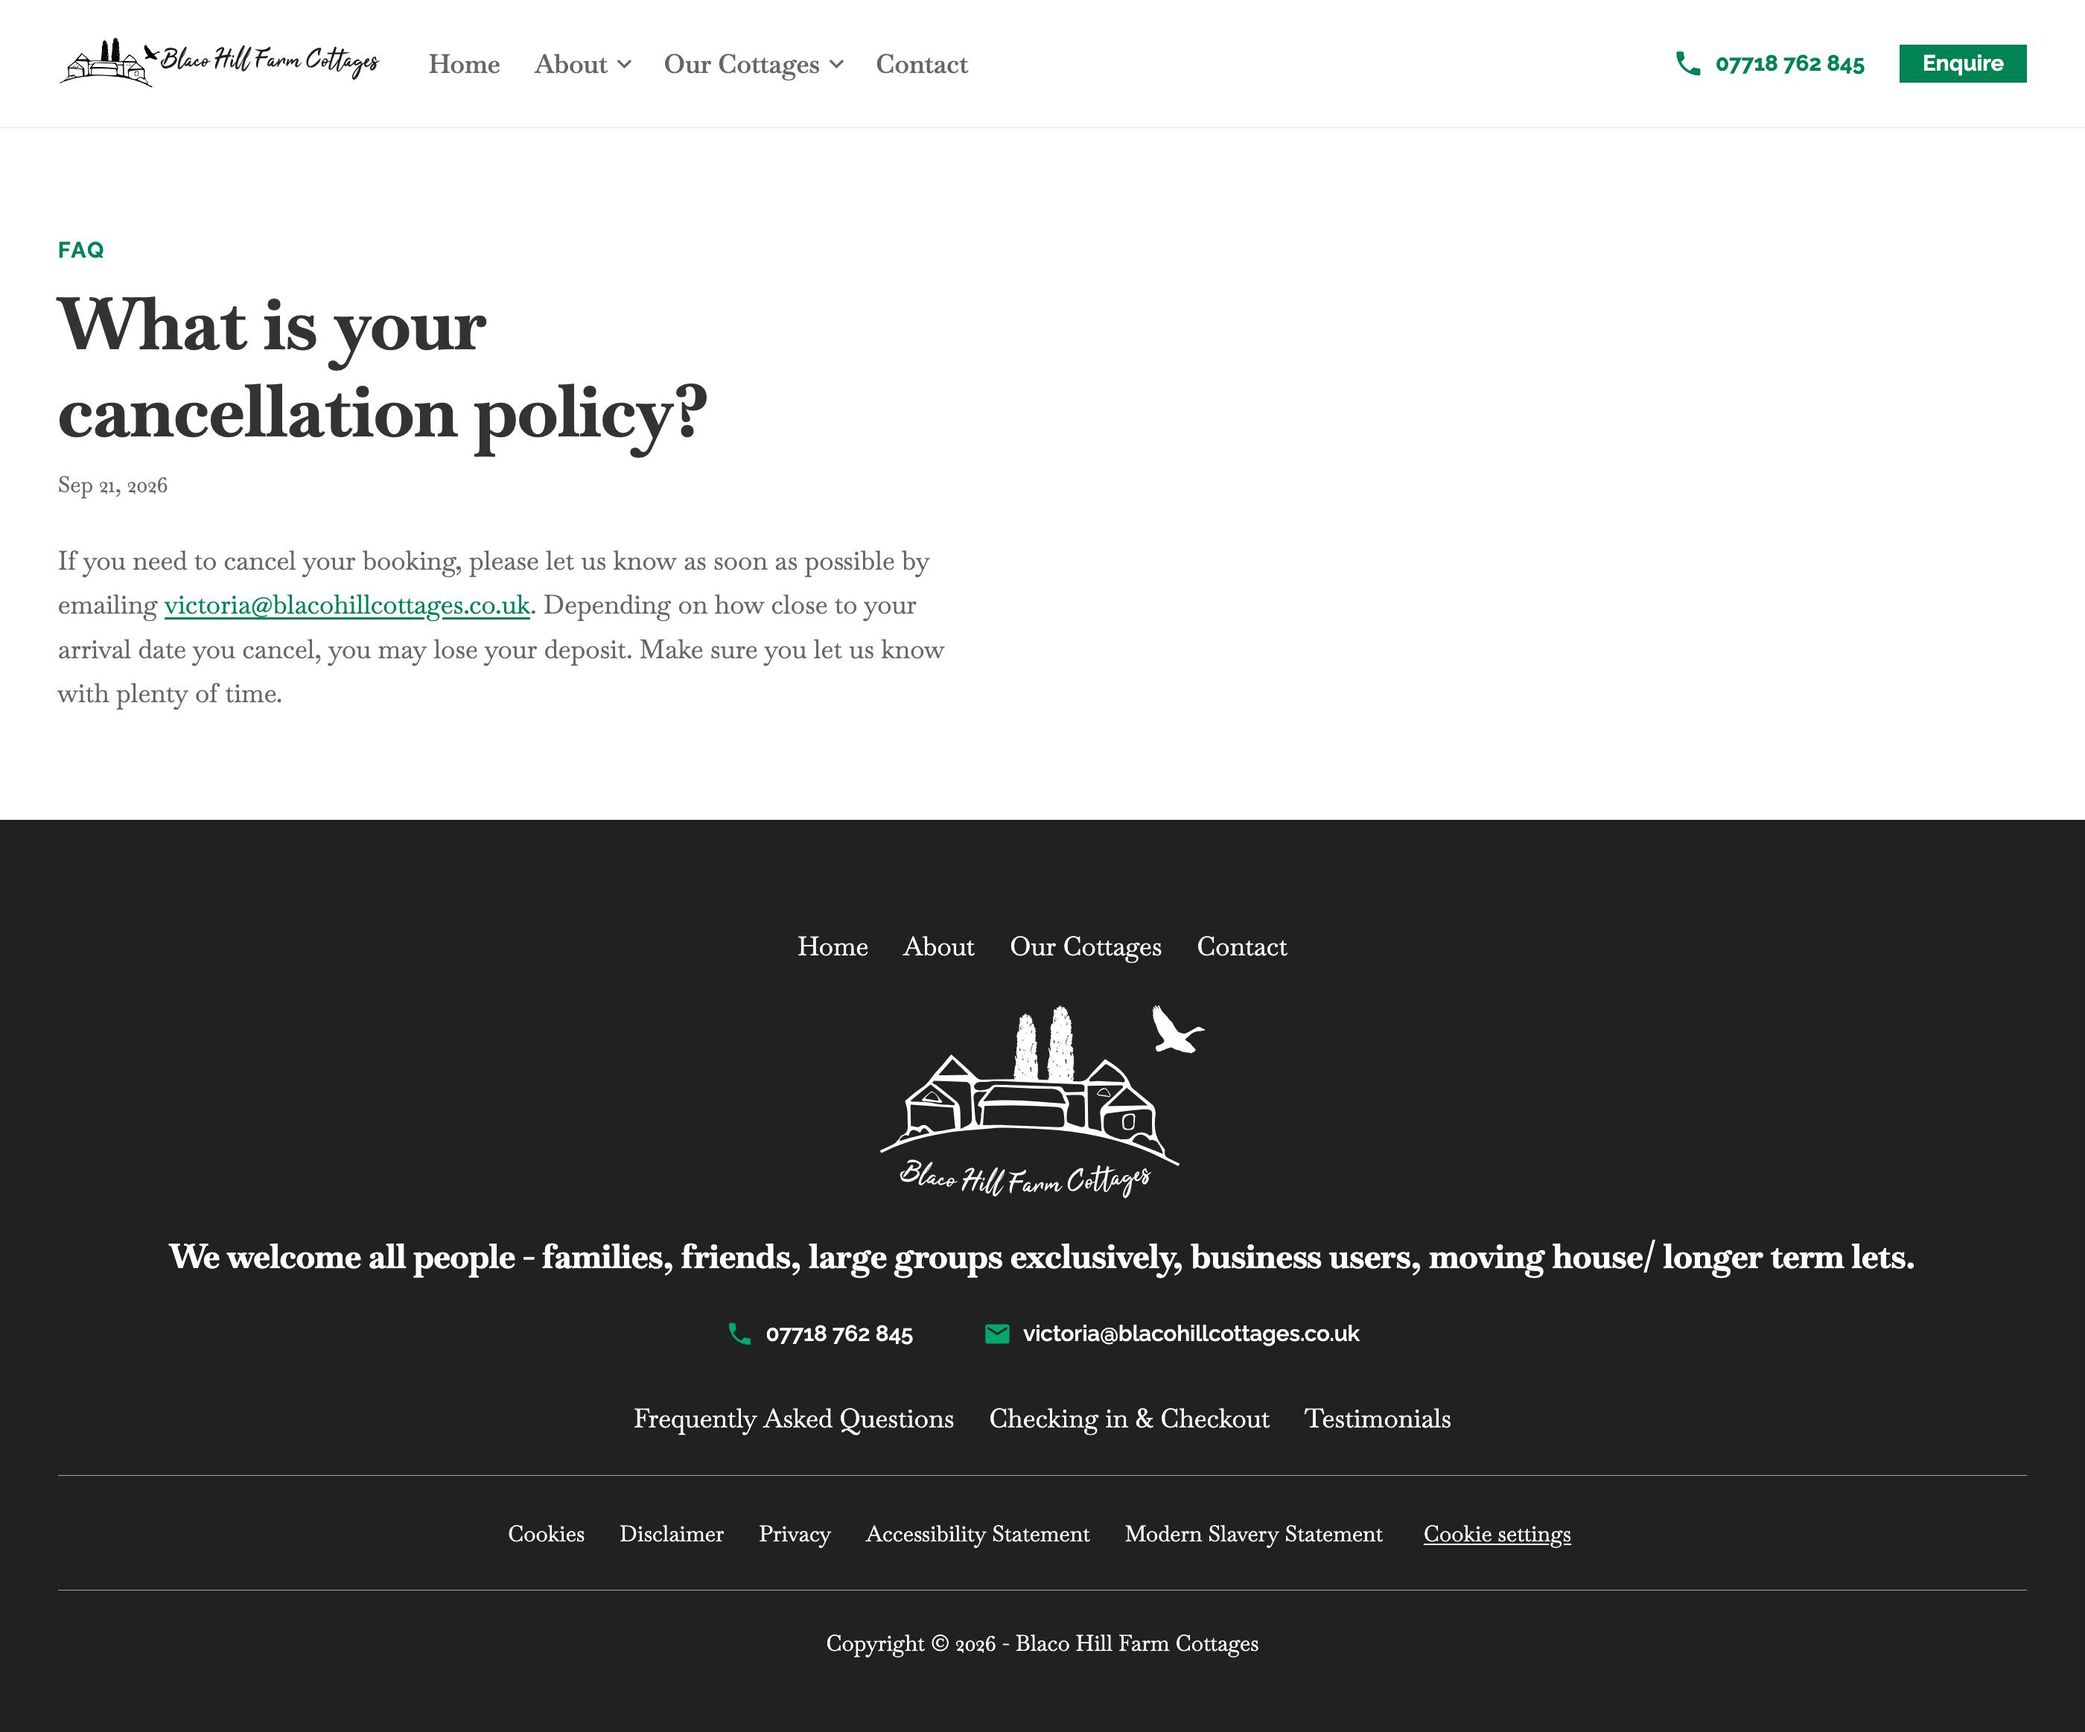
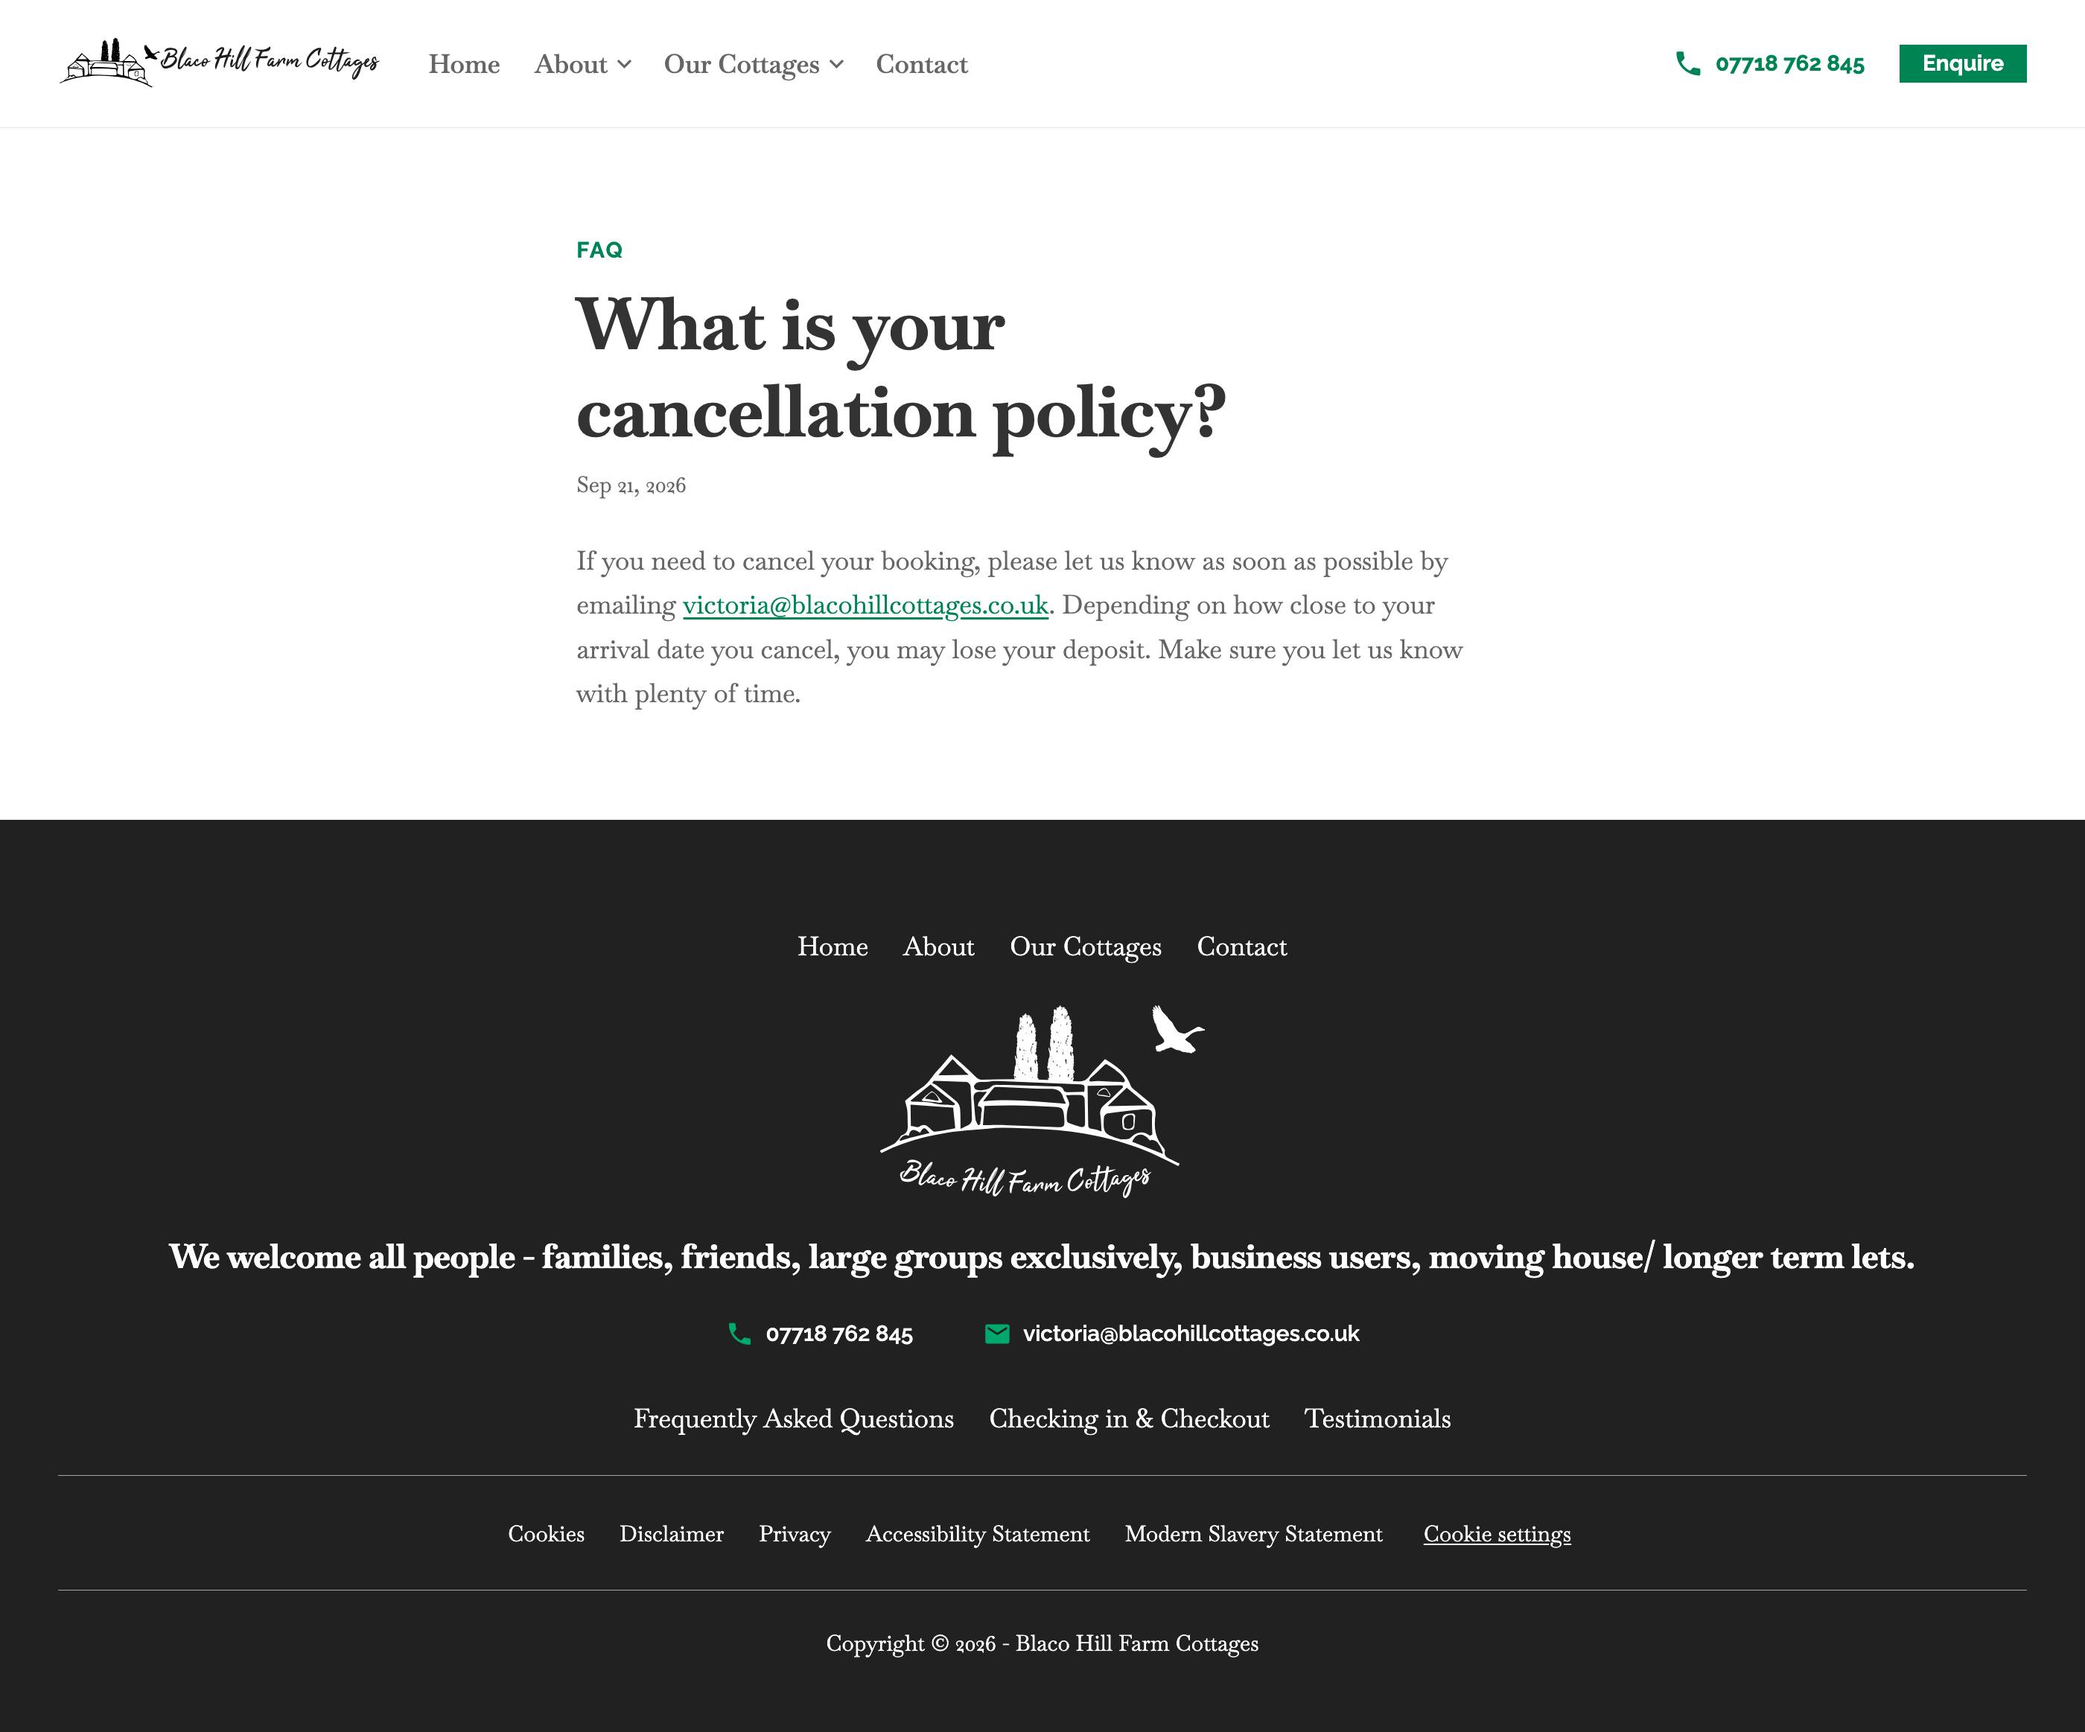
Centre the reading column on the text-heavy pages
The text column on the policy pages, /modern-slavery and the FAQ and
testimonial details is now centred in the page rather than left against
the gutter. Only content sections: the green band and the contact block
keep their layout. The accessibility statement is left as it was, since
its headings sit over list rows that span the page.

A flex item with auto margins shrinks to its content, so each centred
column also gets width: 100% and keeps the full measure.

The reported narrow measure on /modern-slavery did not reproduce: every
page holds a median of 78 characters per line at 768 to 2800px, with the
column at exactly 73ch. The measure is unchanged.

Screenshots retaken for modern-slavery, policy, post-faq and
post-testimonial. tsc clean, build 60 pages, SEO audit clean bar the
three known long titles, content parity 0 unexplained, URL parity 69 of
69, Phase 4 pass, :global audit clean.

Changed region(s): [[0.0311, 0.3095, 0.6214, 0.4024], [0.0311, 0.1238, 0.5904, 0.2786], [0.6214, 0.3095, 0.6836, 0.3715]]

diff --git a/app/components/blocks/Blocks.module.css b/app/components/blocks/Blocks.module.css
@@ -409,6 +409,19 @@
   max-width: var(--measure);
 }
 
+/*
+  The text column is centred in the page, not left against the gutter. Only in
+  content sections: the green band and the contact block keep their layout. Not
+  on the accessibility statement, whose full-width headings sit over rows of
+  two to four list columns that span the page, so it has no single column to
+  centre. width: 100% stops the column shrinking to its content, as a flex item
+  with auto margins otherwise would, so it holds the full measure.
+*/
+.measured:not([data-template='accessibility']) .section[data-kind='content'] .column[data-size='4_4'] > .prose {
+  width: 100%;
+  margin-inline: auto;
+}
+
 /* ---------- buttons ---------- */
 
 .button {

diff --git a/app/components/templates/PostTemplate.module.css b/app/components/templates/PostTemplate.module.css
@@ -33,7 +33,11 @@
 }
 
 /* FAQ and testimonial detail pages are text heavy: the header and the answer
-   keep to the reading measure (Checkpoint 5 decision 2). */
+   keep to the reading measure (Checkpoint 5 decision 2), centred in the page.
+   width: 100% stops a flex item with auto margins shrinking to its content, so
+   the header and the answer share one column. */
 .post > * {
+  width: 100%;
   max-width: var(--measure);
+  margin-inline: auto;
 }

diff --git a/agent/DECISIONS.md b/agent/DECISIONS.md
@@ -100,3 +100,10 @@ Requested by the client, 2026-09-23.
    - Its meta description and `og:description` are written in the style of the others and added to `agent/blaco_seo_descriptions.csv`.
    - It exists only in the rebuild, not on the WordPress site, so it is added in `build-content.mjs` rather than extracted. The About page FAQ toggles stay as they are (Checkpoint 4 decision 2).
 2. **"For six people" becomes "For five or six people"**, because Swallow sleeps five (Checkpoint 1 decision 5). The label changes in the navigation, the listing page's title and H1, and anywhere else it appears. The URL stays `/for-six-people`, so no link or search result breaks.
+
+## Reading measure centred
+
+Requested by Steve, 2026-09-23.
+
+1. **The text column is centred** on the text-heavy pages that have a single column: the policy pages, the modern slavery page, and the FAQ and testimonial detail pages. The measure itself is unchanged (73ch, about 78 characters per line from 768px to 2800px). The green band and contact block below stay full width.
+2. **The accessibility statement is not centred.** Its full-width headings sit over rows of two to four list columns that span the page, so it has no single column to centre.
